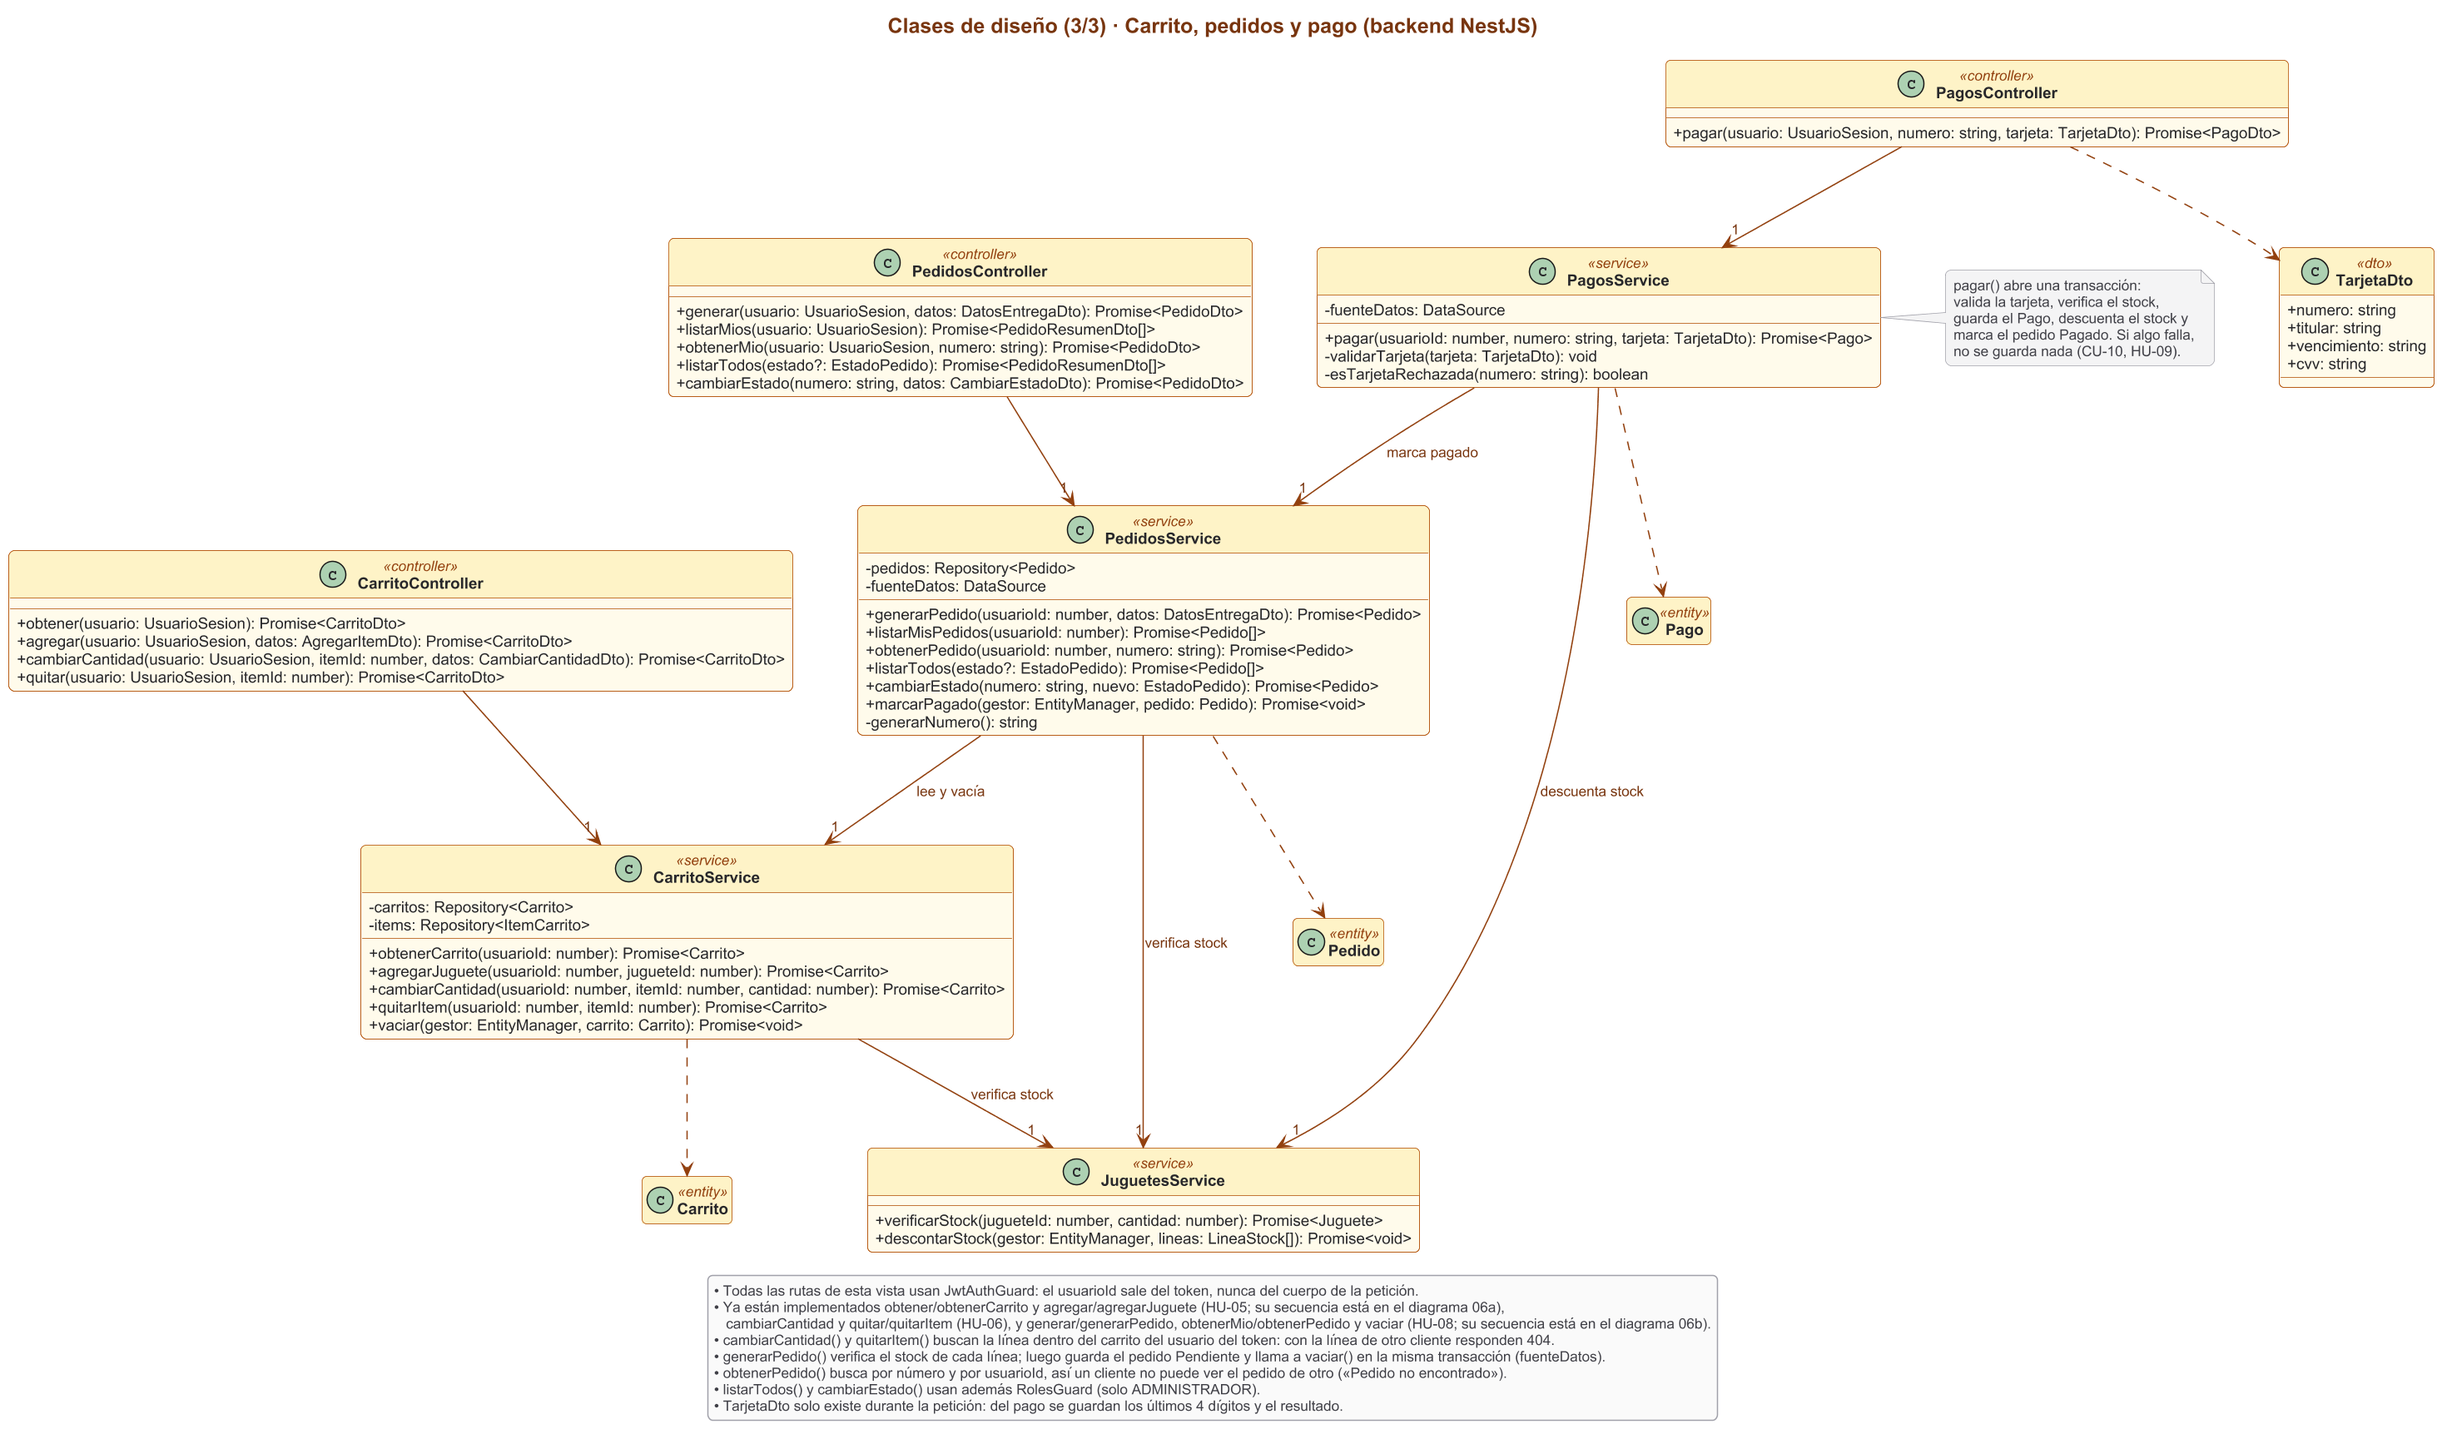
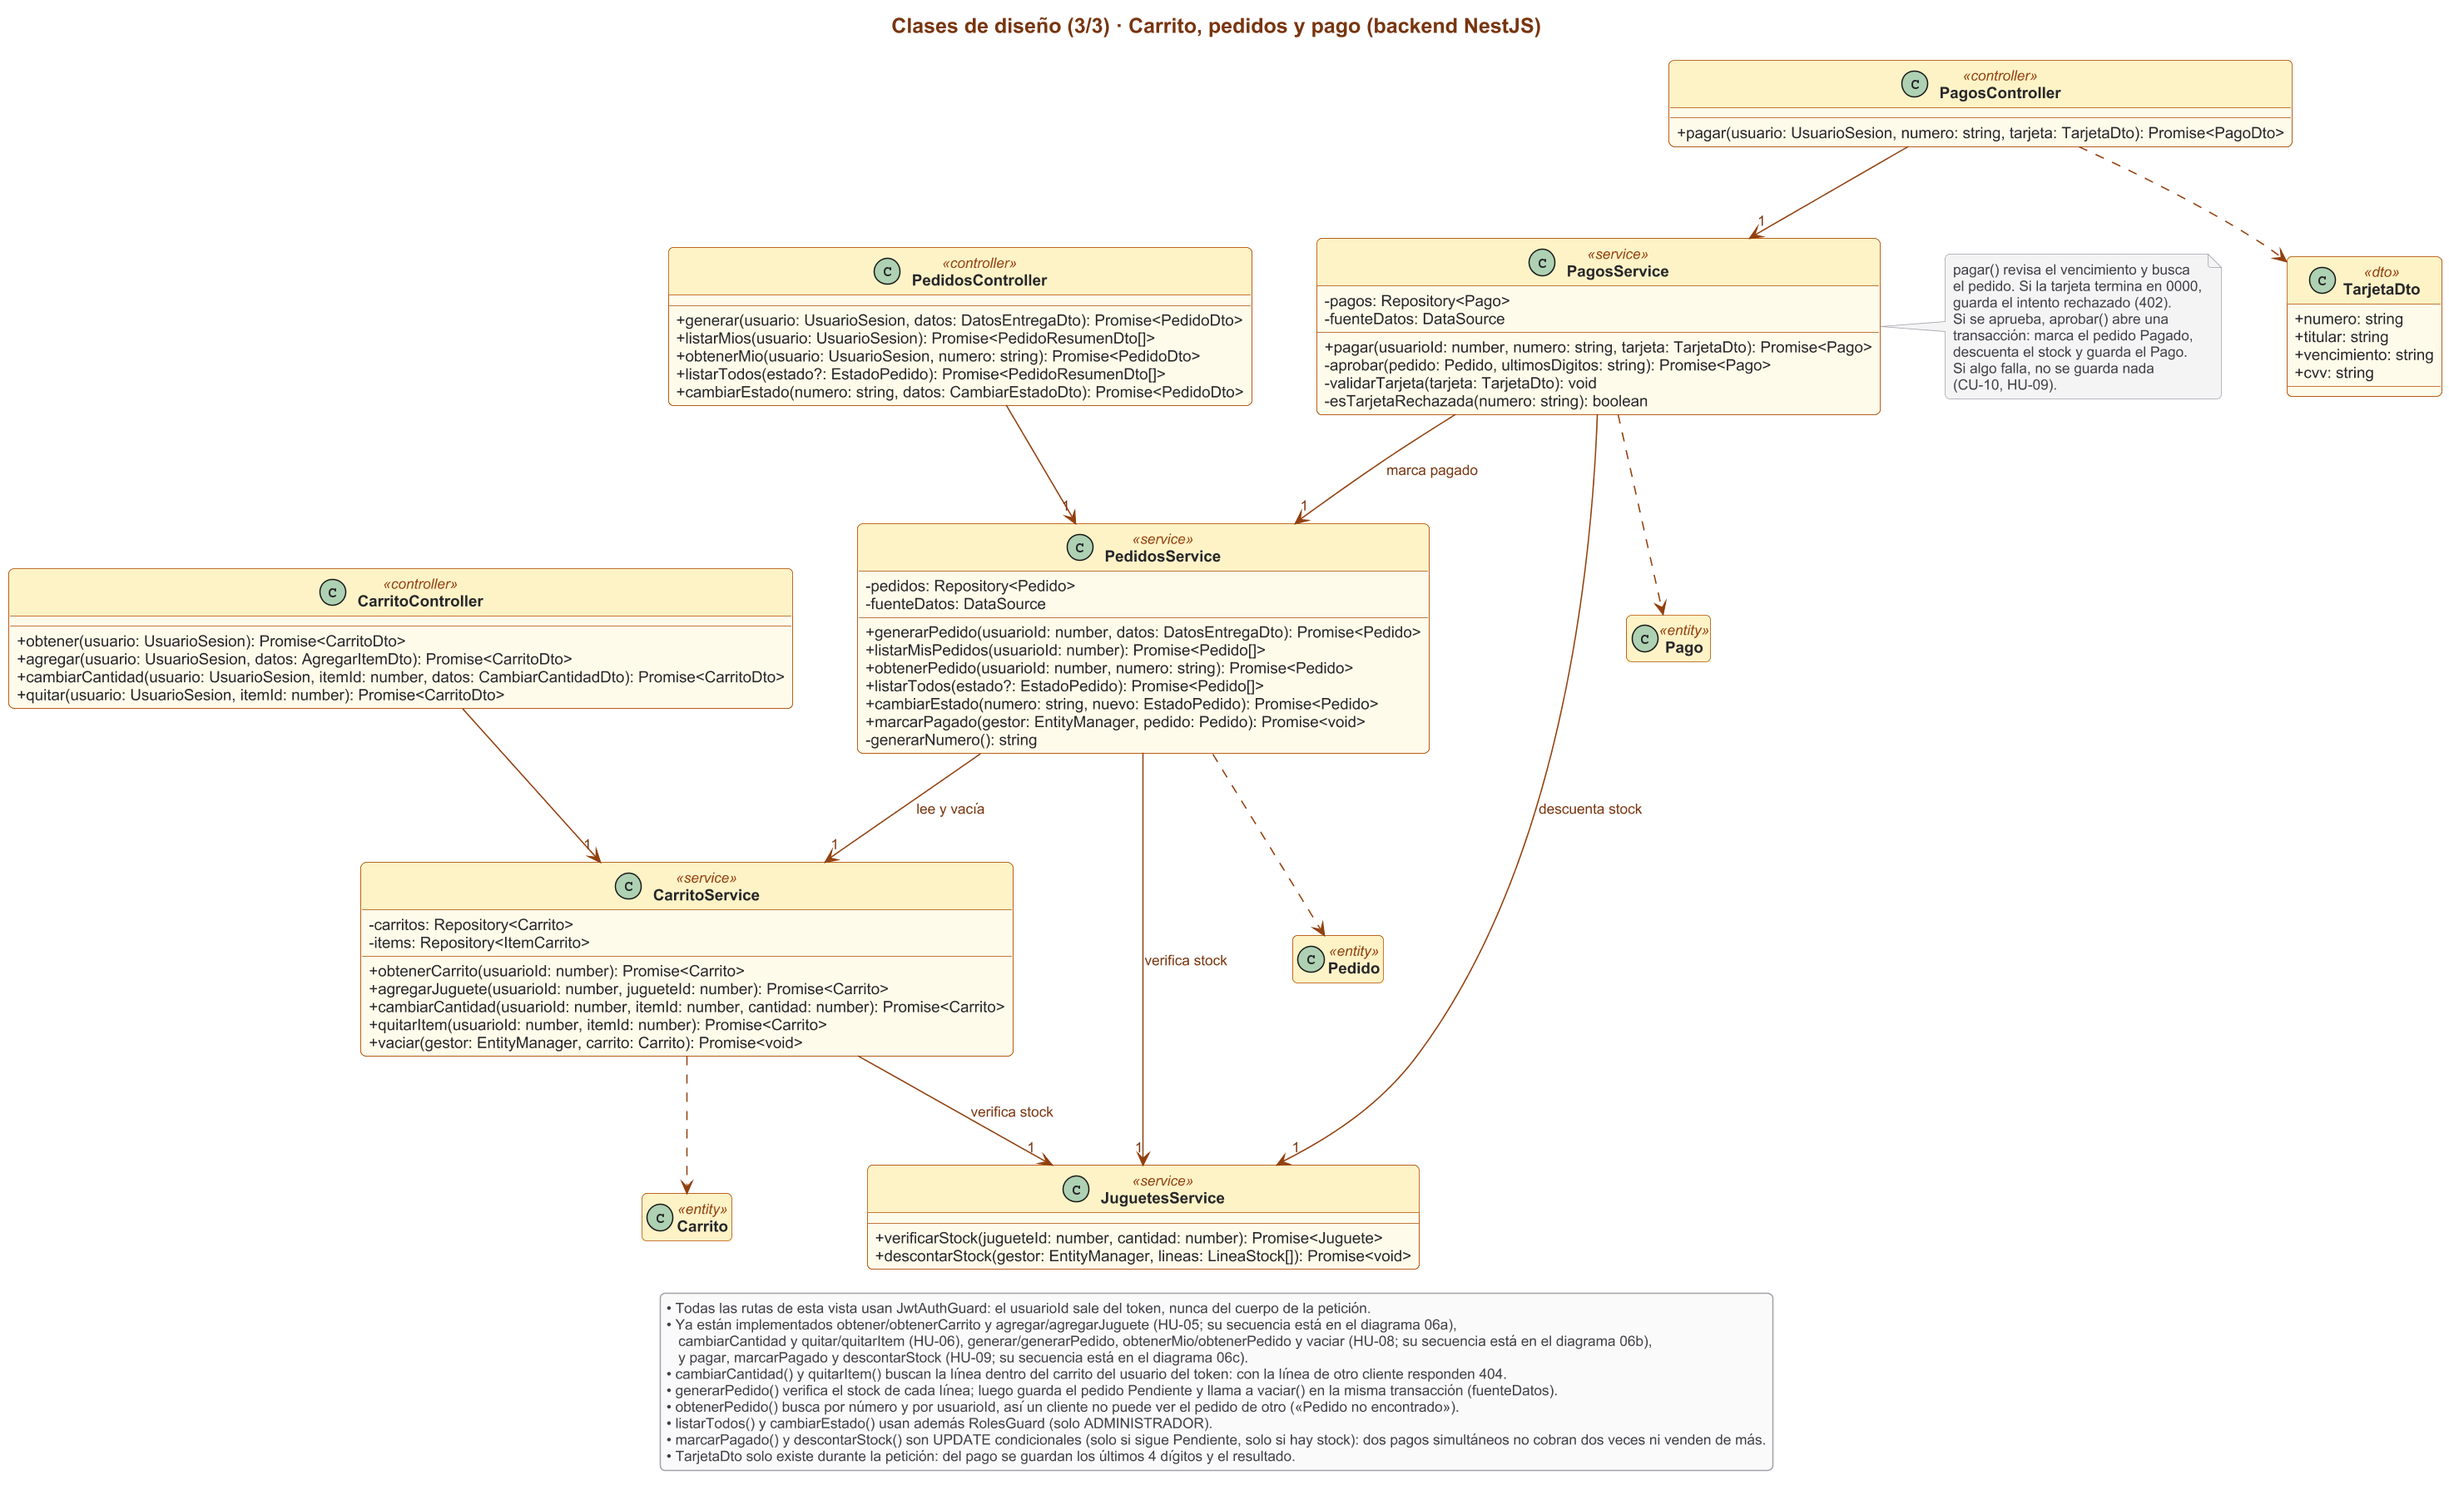
docs(uml): secuencia del pago simulado (06c) y notas de HU-09
ETF-16. «Realizar compra» queda en dos vistas: 06b (generación del pedido) y
06c (CU-10: pago, descuento del stock y rechazo). 04a, 04c, 05b y el README
reflejan lo implementado: PagosService.aprobar, marcarPagado y descontarStock
como UPDATE condicionales, y la entidad Pago.

diff --git a/docs/uml/README.md b/docs/uml/README.md
@@ -9,7 +9,7 @@ Fuentes en PlantUML (`.puml`) y sus imágenes en [`png/`](png/). Cada diagrama u
 | 3 | Paquetes | Análisis | ETF-31 | [03-paquetes](png/03-paquetes.png) |
 | 4 | Clases de diseño | Diseño | ETF-32 | [04a dominio](png/04a-clases-diseno-dominio.png) · [04b catálogo y cuentas](png/04b-clases-diseno-catalogo-cuentas.png) · [04c compra](png/04c-clases-diseno-compra.png) |
 | 5 | Subsistemas con interfaces | Diseño | ETF-32 | [05a interfaces](png/05a-subsistemas-interfaces.png) · [05b operaciones](png/05b-subsistemas-operaciones.png) |
-| 6 | Secuencia: Agregar producto al carrito, Realizar compra y Gestionar productos | Diseño | ETF-33 | [06a agregar al carrito](png/06a-secuencia-agregar-carrito.png) · [06b realizar compra](png/06b-secuencia-realizar-compra.png) (generación del pedido; el pago se agrega con HU-09) · gestionar productos: pendiente |
+| 6 | Secuencia: Agregar producto al carrito, Realizar compra y Gestionar productos | Diseño | ETF-33 | [06a agregar al carrito](png/06a-secuencia-agregar-carrito.png) · [06b realizar compra 1/2](png/06b-secuencia-realizar-compra.png) (generación del pedido) · [06c realizar compra 2/2](png/06c-secuencia-pagar-pedido.png) (pago simulado) · gestionar productos: pendiente |
 | 7 | Componentes y artefactos | Implementación | ETF-34 | |
 | 8 | Despliegue (descriptor) | Despliegue | ETF-34 | |
 | 9 | Despliegue (instancia) | Despliegue | ETF-34 | |
@@ -62,7 +62,7 @@ Se dividen en tres vistas para que cada una se lea bien. **B** = frontera (panta
 | Usuarios | CU-04, CU-05, CU-06 | ControlCuentas | `backend/src/usuarios`, `auth` (registro, inicio de sesión y `JwtAuthGuard` hechos) | `/registro`, `/iniciar-sesion` (hechas) |
 | Carrito | CU-07, CU-08 | ControlCarrito | `backend/src/carrito` (hecho) | botón «Agregar al carrito», contador y `/carrito` con subtotales y total (hechos) |
 | Pedidos | CU-09, CU-11 | ControlPedidos | `backend/src/pedidos` (generar y consultar un pedido hechos) | `/comprar` (hecha), `/mis-pedidos` |
-| Pagos | CU-10 | ControlPago | `backend/src/pagos` | `/pedidos/[numero]/pago` (ya muestra el pedido Pendiente; el formulario de pago llega con HU-09) |
+| Pagos | CU-10 | ControlPago | `backend/src/pagos` (pago simulado hecho) | `/pedidos/[numero]/pago` (formulario de pago y confirmación, hechos) |
 | Administración | CU-12 … CU-15 | ControlAdminCatalogo, ControlAdminPedidos | rutas protegidas para el rol ADMINISTRADOR en `juguetes`, `categorias` y `pedidos` | `/admin/...` |
 
 ## 4. Clases de diseño
@@ -78,8 +78,8 @@ Tres vistas: el modelo de dominio (entidades de TypeORM) y los controllers y ser
 - **Usuario con rol.** Cliente y Administrador del análisis se diseñan como un solo `Usuario` con el atributo `rol` (enum `Rol`), igual que en el código. Comparten el registro y el inicio de sesión.
 - **Controller + service.** Cada módulo de NestJS tiene un controller, que expone las rutas HTTP, y un service, que aplica las reglas del negocio usando el `Repository` de TypeORM.
 - **Seguridad.** `JwtAuthGuard` identifica al usuario a partir del JWT, y `RolesGuard` deja pasar solo al rol ADMINISTRADOR. El `usuarioId` siempre sale del token, nunca del cuerpo de la petición.
-- **Pago en una transacción.** `PagosService.pagar()` valida la tarjeta, verifica el stock, guarda el `Pago`, descuenta el stock y marca el pedido como Pagado en una sola transacción.
-- **Ya implementado.** `JuguetesController` y `JuguetesService` con `listarCatalogo` y `obtenerDetalle` (HU-01, HU-02); `AuthController`, `AuthService` y `UsuariosService` con `registrar` (HU-03) e `iniciarSesion` (HU-04); `JwtAuthGuard`, `AuthService.verificarToken`, `JuguetesService.verificarStock` y `CarritoController`/`CarritoService` con `obtener` y `agregar` (HU-05), y con `cambiarCantidad` y `quitar`/`quitarItem` (HU-06); `Carrito.calcularTotal` e `ItemCarrito.calcularSubtotal` (HU-07); `PedidosController`/`PedidosService` con `generar`/`generarPedido` y `obtenerMio`/`obtenerPedido`, `CarritoService.vaciar` y las entidades `Pedido`, `DetallePedido` y `DatosEntrega` (HU-08). El resto de nombres guía las próximas historias.
+- **Pago en una transacción.** `PagosService.pagar()` revisa la tarjeta y el pedido; si se aprueba, marca el pedido como Pagado (`PedidosService.marcarPagado`), descuenta el stock (`JuguetesService.descontarStock`) y guarda el `Pago` en una sola transacción. Si algo falla, no se guarda nada.
+- **Ya implementado.** `JuguetesController` y `JuguetesService` con `listarCatalogo` y `obtenerDetalle` (HU-01, HU-02); `AuthController`, `AuthService` y `UsuariosService` con `registrar` (HU-03) e `iniciarSesion` (HU-04); `JwtAuthGuard`, `AuthService.verificarToken`, `JuguetesService.verificarStock` y `CarritoController`/`CarritoService` con `obtener` y `agregar` (HU-05), y con `cambiarCantidad` y `quitar`/`quitarItem` (HU-06); `Carrito.calcularTotal` e `ItemCarrito.calcularSubtotal` (HU-07); `PedidosController`/`PedidosService` con `generar`/`generarPedido` y `obtenerMio`/`obtenerPedido`, `CarritoService.vaciar` y las entidades `Pedido`, `DetallePedido` y `DatosEntrega` (HU-08); `PagosController`/`PagosService` con `pagar`, `PedidosService.marcarPagado`, `JuguetesService.descontarStock` y la entidad `Pago` (HU-09). El resto de nombres guía las próximas historias.
 - **El hash no sale de la base de datos.** La columna `contrasena_hash` tiene `select: false`: solo `UsuariosService.buscarConContrasena` la lee, y solo para el inicio de sesión.
 
 ## 5. Subsistemas con interfaces
@@ -119,4 +119,10 @@ Cada diagrama de secuencia se hace junto con la historia que implementa su caso 
 
 - **CU-09 Realizar compra (HU-08).** La página `/comprar` valida el formulario de entrega antes de llamar a `POST /pedidos`; `PedidosService.generarPedido` lee el carrito con `CarritoService` (ICarrito) y verifica el stock de cada línea con `JuguetesService.verificarStock` (IInventario).
 - **Fragmentos `alt`.** Un dato que falta o un teléfono sin 9 dígitos se corrige en el formulario; con el carrito vacío responde 400; si algún juguete supera su stock responde 409 con la lista de juguetes que hay que ajustar y no se genera el pedido.
-- **Una sola transacción.** El pedido Pendiente, sus detalles con el precio vigente y el vaciado del carrito se guardan juntos o no se guarda nada (`opt`: un doble clic encuentra el carrito ya vacío y se deshace). HU-09 agregará a este diagrama el pago simulado y el descuento del stock.
+- **Una sola transacción.** El pedido Pendiente, sus detalles con el precio vigente y el vaciado del carrito se guardan juntos o no se guarda nada (`opt`: un doble clic encuentra el carrito ya vacío y se deshace). El pago sigue en el diagrama 06c.
+
+![Secuencia: realizar compra, pago simulado](png/06c-secuencia-pagar-pedido.png)
+
+- **CU-09 (2/2) y CU-10 Procesar pago simulado (HU-09).** «Realizar compra» se divide en dos vistas para que cada una se lea completa. En la página de pago, `FormularioPago` valida la tarjeta antes de llamar a `POST /pedidos/{numero}/pago`; `PagosService.pagar` busca el pedido con `PedidosService` (IPedidos) y descuenta el stock con `JuguetesService` (IInventario).
+- **Fragmentos `alt`.** Datos mal escritos o tarjeta vencida: 400 por campo; pedido ya pagado: 409; tarjeta que termina en 0000: 402 «Pago rechazado», se guarda el intento y el cliente puede reintentar.
+- **Una sola transacción.** Pedido Pagado, descuento del stock y pago aprobado se guardan juntos o nada (`opt`: otro pago que llegó antes o un juguete sin stock hacen ROLLBACK). Del pago solo se guardan los últimos 4 dígitos y el resultado.
